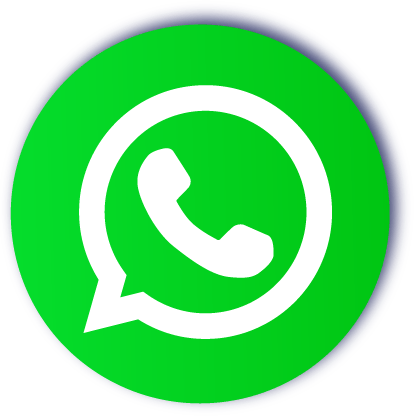
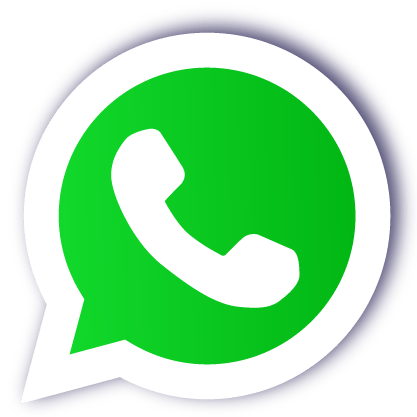
Modifica botão flutuante do whatsapp para versão sem borda e apaga tag main

diff --git a/src/components/sobreNos/SobreNos.tsx b/src/components/sobreNos/SobreNos.tsx
@@ -2,7 +2,7 @@
 
 import Image from "next/image";
 import styles from "./StylesSobreNos.module.css";
-import { Check, Hammer, Handshake, Heart, Radio, Rocket, Scale, Settings, Wrench } from "lucide-react";
+import { Check, Handshake, Heart, Wrench, Rocket, Scale } from "lucide-react";
 
 export function SobreNos() {
 
@@ -36,26 +36,23 @@ export function SobreNos() {
               <h3 className={styles.titleContentQuemSomos}>Quem somos</h3>
             </div>
             <div>
-              <p className={styles.paragra}>A Delorian nasceu com o propósito de oferecer soluções modernas, seguras e acessíveis para quem precisa automatizar ou manter seu portão eletrônico. Oferecemos um atendimento ágil, técnico e comprometido com a sua satisfação.
-              Somos especializados em:
-            </p>
-              <ul>
-                <li className={`${styles.iconAndText} ${styles.iconAndTextFirstBlock}`}><Wrench size={40} className={styles.icons}/><p className={styles.paragra}><b>Instalação</b></p></li>
-                <li className={`${styles.iconAndText} ${styles.iconAndTextFirstBlock}`}><Settings size={40} className={styles.icons}/><p className={styles.paragra}><b>Manutenção</b></p></li>
-                <li className={`${styles.iconAndText} ${styles.iconAndTextFirstBlock}`}><Hammer size={40} className={styles.icons}/><p className={styles.paragra}><b>Conserto de motores para portões basculantes, pivotantes e deslizantes</b></p></li>
-                <li className={`${styles.iconAndText} ${styles.iconAndTextFirstBlock}`}><Radio size={40} className={styles.icons}/><p className={styles.paragra}><b>Cadastro de controles</b></p></li>
-              </ul>
-              <p className={styles.paragra}>Trabalhamos com as principais marcas do mercado, como PPA, Rossi, Peccinin, Garen, Intelbras e Nice, priorizando qualidade, segurança e confiabilidade.</p>
+              <p className={styles.paragraQuemSomos}>Na Delorian, somos especialistas em automação e manutenção de portões eletrônicos. Atuamos em Curitiba e região metropolitana, sempre com foco na segurança, comodidade e qualidade para nossos clientes.</p>
+              <p className={styles.paragraQuemSomos}>Contamos com técnicos altamente qualificados, prontos para atender desde instalações de motores para portões deslizantes, basculantes e pivotantes até manutenções preventivas e corretivas. Oferecemos planos personalizados que se adaptam às necessidades de cada cliente, proporcionando tranquilidade e suporte contínuo.</p>
+              <p className={styles.paragraQuemSomos}>Trabalhamos com as principais marcas do mercado, como PPA, Rossi, Peccinin, Garen, Intelbras e Nice, priorizando qualidade, segurança e confiabilidade.</p>
+              <p className={styles.paragraQuemSomos}>Valorizamos a transparência, a agilidade e o compromisso com a qualidade. Nosso objetivo é ser sua primeira escolha em automação de portões, construindo relações de confiança e satisfação duradouras.</p>
             </div>
           </div>
           <div className={styles.nossosValoresContainer}>
             <div className={styles.titleContents}><Heart size={70} fill="#0311FE" color="#0311FE" className={styles.heartIcon}/><h3>Nossos valores e Princípios</h3></div>
-            <ul>
-              <li className={`${styles.iconAndText} ${styles.iconAndTextSecondBlock}`}><Check size={40} className={styles.icons}/><p className={styles.paragra}>Atendimento personalizado: vamos até você, com <b>agilidade e sem custo de visita</b>.</p></li>
-              <li className={`${styles.iconAndText} ${styles.iconAndTextSecondBlock}`}><Handshake size={40} className={styles.icons}/><p className={styles.paragra}>Compromisso com o cliente: foco total na <b>sua tranquilidade e satisfação</b>.</p></li>
-              <li className={`${styles.iconAndText} ${styles.iconAndTextSecondBlock}`}><Scale size={40} className={styles.icons}/><p className={styles.paragra}><b>Preço justo:</b> transparência e acessibilidade em todos os serviços.</p></li>
-              <li className={`${styles.iconAndText} ${styles.iconAndTextSecondBlock}`}><Wrench size={40} className={styles.icons}/><p className={styles.paragra}>Excelência técnica: soluções bem feitas, com <b>marcas reconhecidas e profissionais capacitados</b>.</p></li>
-              <li className={`${styles.iconAndText} ${styles.iconAndTextSecondBlock}`}><Rocket size={40} className={styles.icons}/><p className={styles.paragra}><b>Rapidez e eficiência:</b> serviço ágil, sem perder a <b>qualidade</b>.</p></li>
+            <ul className={styles.ulNossosValores}>
+              <li className={styles.iconAndText}><Check size={40} className={styles.icons}/><p className={styles.paragra}>Atendimento personalizado: vamos até você, com <b>agilidade e sem custo de visita</b>.</p></li>
+              <li className={styles.iconAndText}><Handshake size={40} className={styles.icons}/><p className={styles.paragra}>Compromisso com o cliente: foco total na <b>sua tranquilidade e satisfação</b>.</p></li>
+              <li className={styles.iconAndText}><Scale size={40} className={styles.icons}/><p className={styles.paragra}><b>Preço justo:</b> transparência e acessibilidade em todos os serviços.</p></li>
+              <li className={styles.iconAndText}><Wrench size={40} className={styles.icons}/><p className={styles.paragra}>Excelência técnica: soluções bem feitas, com <b>marcas reconhecidas e profissionais capacitados</b>.</p></li>
+              <li className={styles.iconAndText}><Rocket size={40} className={styles.icons}/><p className={styles.paragra}><b>Rapidez e eficiência:</b> serviço ágil, sem perder a <b>qualidade</b>.</p></li>
+              <li className={styles.iconAndText}><Rocket size={40} className={styles.icons}/><p className={styles.paragra}><b>Suporte contínuo</b></p></li>
+              <li className={styles.iconAndText}><Rocket size={40} className={styles.icons}/><p className={styles.paragra}><b>Garantia nos serviços</b></p></li>
+              <li className={styles.iconAndText}><Rocket size={40} className={styles.icons}/><p className={styles.paragra}><b>Soluções sob medida</b></p></li>
             </ul>
             <span onClick={handleRedirectWhatsapp} className={`${styles.paragra} ${styles.spanCta}`}>Precisou? Chama a Delorian.</span>
           </div>

diff --git a/src/components/sobreNos/StylesSobreNos.module.css b/src/components/sobreNos/StylesSobreNos.module.css
@@ -4,9 +4,9 @@
   margin: 0 auto;
 }
 .sobreNosContainer{
-  max-width: 1364px;
+  max-width: 90%;
   margin: 0 auto;
-  padding: 0 2rem;
+  padding: 0 1rem;
   justify-items: center;
   justify-content: space-around;
 }
@@ -30,19 +30,24 @@
   letter-spacing: 5%;
   color: #ffffff;
   font-family: 'Poppins', sans-serif;
+  margin: 0 auto;
 }
 .infoContainer{
   display: grid;
   grid-template-columns: 1fr 1fr;
   gap: 2rem;
   margin-top: 2rem;
-  margin-bottom: 6rem;
+  margin-bottom: 4rem;
 }
 .quemSomosContainer, .nossosValoresContainer{
   background: #F5F9FA;
   border-radius: 1.25rem;
-  padding: 4rem 5rem;
+  padding: 2rem 3rem;
   text-align: flex-start;
+}
+.ulNossosValores{
+  display: grid;
+  grid-template-columns: 1fr 1fr;
 }
 .iconAndText{
   display: grid;
@@ -54,31 +59,38 @@
   font-family: 'Roboto', monospace;
   font-size: 1.188rem;
   margin-bottom: 1.5rem;
-}
-.iconAndTextSecondBlock{
   align-items: flex-start;
   margin-bottom: 0.4rem;
 }
+
 /* .iconAndTextFirstBlock{
   align-items: center;
 } */
 .paragra{
   font-family: 'Roboto', monospace;
-  font-size: 1.188rem;
-  margin-bottom: 1.5rem;
+  font-size: 1.2rem;
+  margin-bottom: 1.8rem;
   line-height: 1.5;
+}
+.paragraQuemSomos{
+  font-family: 'Roboto', monospace;
+  font-size: 1.4rem;
+  margin-bottom: 0.5rem;
+  line-height: 1.5;
+  text-align: justify;
 }
 .titleContents{
   display: grid;
   grid-template-columns: auto 5fr;
   gap: 1rem;
-  max-width: 20rem;
+  max-width: fit-content;
   margin-bottom: 2.5rem;
   font-size:1.5rem;
   align-items: flex-start;
   font-weight: 900;
   color: #000000;
   justify-content: flex-start;
+  align-items: center;
 }
 .titleContentQuemSomos{
   align-items: center;
@@ -116,6 +128,19 @@
     color: #0311FE;
   }
 }
+.questionValores{
+  font-family: 'Poppins', sans-serif;
+  font-weight: 600;
+  font-size: 1.6rem;
+  text-align: center;
+  margin-bottom: 1.8rem;
+  line-height: 1.5;
+}
+.liEscolhaDelorian{
+  font-family: 'Roboto', monospace;
+  font-size: 1.4rem;  
+}
+
 
 
 /* Responsiveness */

diff --git a/src/components/header/Header.tsx b/src/components/header/Header.tsx
@@ -13,7 +13,7 @@ export default function Header() {
 
   return (
       <header className={styles.container} id="inicioId"> 
-        <main className={styles.main}>   
+        <div className={styles.main}>   
           <Link href="/">
             <Image 
               src="/assets/logoDelorian.webp" 
@@ -31,7 +31,7 @@ export default function Header() {
             e.preventDefault();document.getElementById("delorianResolveId")?.scrollIntoView({ behavior: "smooth" });}}>Delorian resolve</Link>
             <button className={styles.button} onClick={handleClickTalkWithUs}>Fale conosco</button>
           </nav>
-        </main>  
+        </div>  
       </header>
   )
 }

diff --git a/src/components/bannerSection/BannerSection.tsx b/src/components/bannerSection/BannerSection.tsx
@@ -11,7 +11,7 @@ export function BannerSection() {
   }
   return (
     <div className={styles.bannerBg}>
-      <main className={styles.bannerContainer}>
+      <div className={styles.bannerContainer}>
         <div className={styles.bannerTitle}>
           <h2 className={styles.title}>Automação e manutenção de portões eletrônicos</h2>
           <p className= {styles.subtitle}>Instalação, conserto e eficiência.<br/>Solicite seu orçamento grátis!</p>
@@ -35,7 +35,7 @@ export function BannerSection() {
             className={styles.portao}
             />
         </div>    
-      </main>
+      </div>
     </div>
   )
 };

diff --git a/src/components/floatingWhatsAppButton/StylesFloatingWhatsAppButton.module.css b/src/components/floatingWhatsAppButton/StylesFloatingWhatsAppButton.module.css
@@ -7,16 +7,15 @@
   padding: 0.25rem;
   bottom: 0.125rem; 
   right: 1rem;
-  width: 5.2rem; 
-  height: 5.2rem;
+  width: 5.5rem; 
+  height: 5.5rem;
   cursor: pointer;
   z-index: 1000;
   border: solid 0.125rem transparent;
   margin: 1rem;
   animation: blink 6s infinite;
     &:hover {
-      width: 5rem; 
-      height: 5rem;
+      transform: scale(1.5);
       animation: none;
     }
   }
@@ -41,8 +40,8 @@
     .whatsappIconFixed {
       bottom: 1vw; 
       right: 0.5vw;
-      width: 3.5rem; 
-      height: 3.5rem;
+      width: 4rem; 
+      height: 4rem;
       position: fixed;
    }
 }

diff --git a/src/app/page.tsx b/src/app/page.tsx
@@ -14,7 +14,7 @@ import { SolucoesDelorian } from "@/components/solucoesDelorian/SolucoesDelorian
 
 export default function Home() {
   return (
-    <main>
+    <div>
       <Header />
       <BannerSection />
       <PlansDelorian />
@@ -28,6 +28,6 @@ export default function Home() {
       <InfoSection />
       <Footer />
       <FloatingWhatsAppButton />
-    </main>
+    </div>
   );
 }
